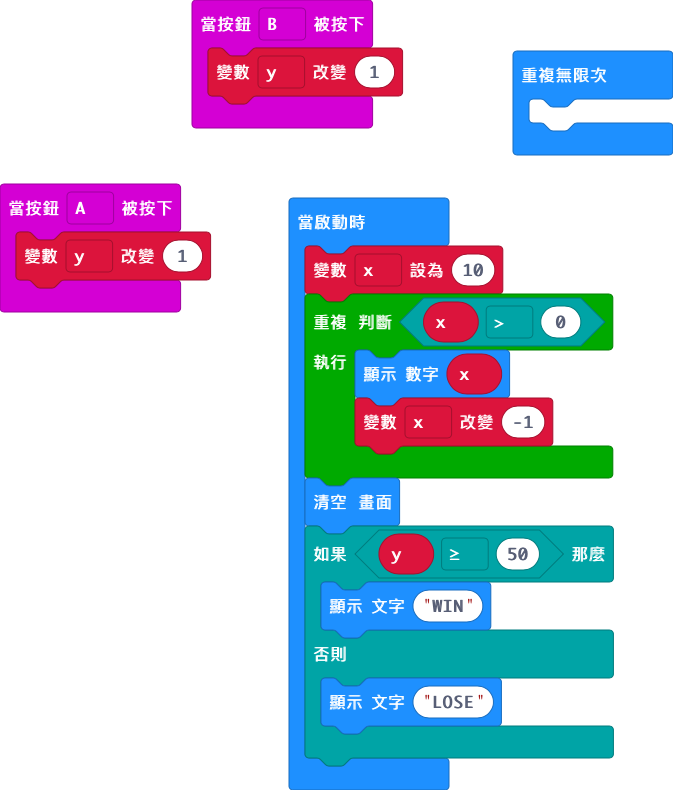
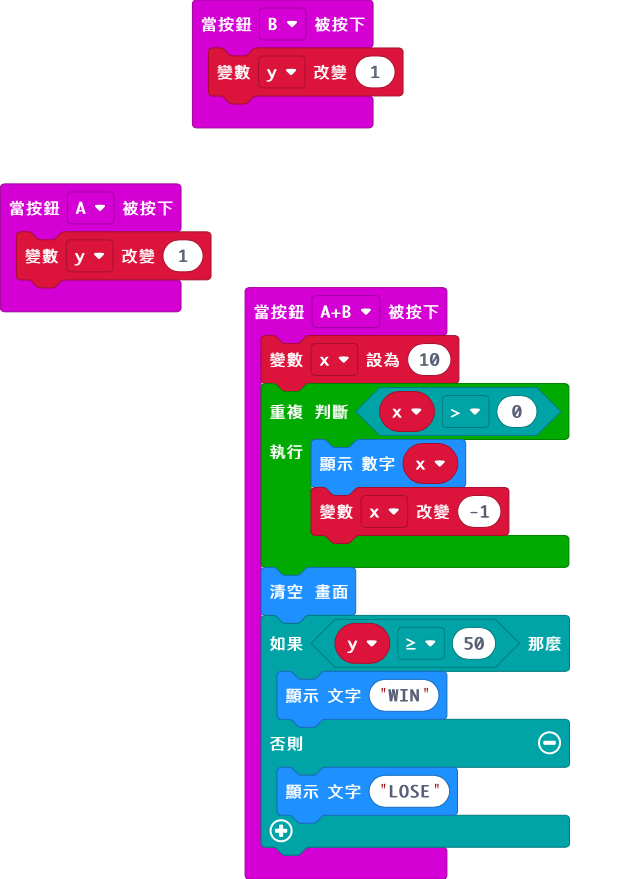
Update main.blocks, main.ts

diff --git a/main.ts b/main.ts
@@ -1,21 +1,21 @@
+let y = 0
+let x = 0
 input.onButtonPressed(Button.A, function () {
     y += 1
 })
+input.onButtonPressed(Button.AB, function () {
+    x = 10
+    while (x > 0) {
+        basic.showNumber(x)
+        x += -1
+    }
+    basic.clearScreen()
+    if (y >= 50) {
+        basic.showString("WIN")
+    } else {
+        basic.showString("LOSE")
+    }
+})
 input.onButtonPressed(Button.B, function () {
     y += 1
-})
-let y = 0
-let x = 10
-while (x > 0) {
-    basic.showNumber(x)
-    x += -1
-}
-basic.clearScreen()
-if (y >= 50) {
-    basic.showString("WIN")
-} else {
-    basic.showString("LOSE")
-}
-basic.forever(function () {
-	
 })
